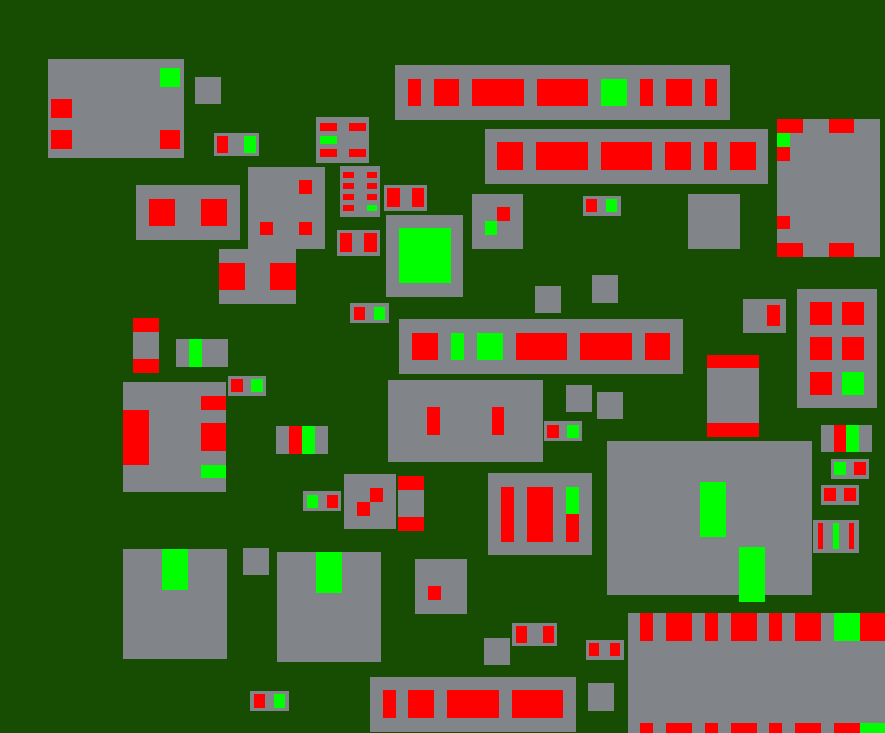
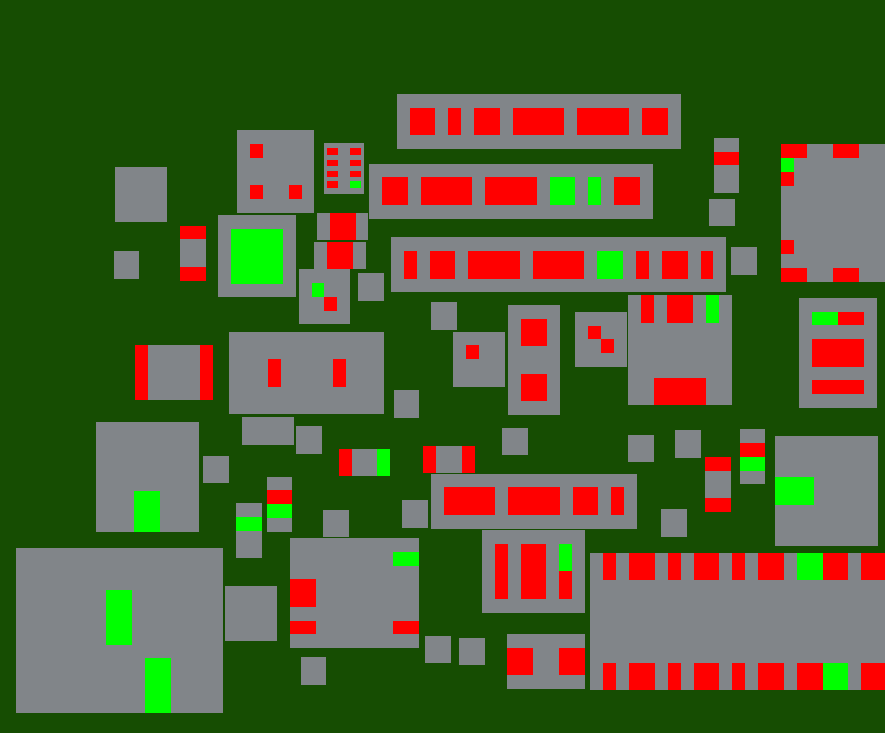
cleaning up, etc.

diff --git a/pcb-layout/src/main.rs b/pcb-layout/src/main.rs
@@ -7,6 +7,7 @@ use kicad_parse::parse_file;
 use plotters::coord::types::RangedCoordf64;
 use plotters::prelude::*;
 use rand::prelude::*;
+use rand::distr::weighted::WeightedIndex;
 use std::collections::BTreeMap;
 use std::time::Instant;
 
@@ -125,7 +126,7 @@ impl Individual {
     }
     fn move_to_new(&mut self, a: usize) {
         let mut rng = rand::rng();
-        let qk_comp = self.comp_list[a - 1].bbox;
+        //let qk_comp = self.comp_list[a - 1].bbox;
         let x = rng.random_range(self.pl_area.x1..self.pl_area.x2);
         let y = rng.random_range(self.pl_area.y1..self.pl_area.y2);
         //We need to zero, so lets grab the coords and also hold on to them
@@ -316,6 +317,50 @@ fn generate_animation(pl: Placement) -> Vec<String> {
     }
     file_names
 }
+fn ev_selection( population : & mut Vec<Individual>){
+    let weights: Vec<f64> = population.iter().map(|i| i.fitness).collect();
+    let dist = WeightedIndex::new(&weights).unwrap();
+    let pop_size = population.len();
+    //let new_vec = Vec::new();
+    let mut rng = rand::rng();
+    for _  in 0..pop_size{
+        let parent_a: &Individual = &population[dist.sample(&mut rng)];
+        let parent_b: &Individual = &population[dist.sample(&mut rng)];
+        let child_a: Individual = parent_a.crossover(parent_b);
+        let child_b: Individual = parent_b.crossover(parent_a);
+        population.push(child_a);
+        population.push(child_b);
+         
+    }
+        population.sort_by(|a: &Individual, b: &Individual| {
+            let a_s = a.fitness;
+            let b_s = b.fitness;
+
+            a_s.partial_cmp(&b_s).unwrap()
+        });
+        population.truncate(pop_size as usize);
+
+}
+fn elitist_selection( population : & mut Vec<Individual>){
+    let pop_size = population.len();
+    for i in (0..pop_size).step_by(2) {
+        let parent_a: &Individual = &population[i as usize];
+        let parent_b: &Individual = &population[(i + 1) as usize];
+        let child_a: Individual = parent_a.crossover(parent_b);
+        let child_b: Individual = parent_b.crossover(parent_a);
+            
+        population.push(child_a);
+        population.push(child_b);
+    }
+    population.sort_by(|a: &Individual, b: &Individual| {
+        let a_s = a.fitness;
+        let b_s = b.fitness;
+
+        a_s.partial_cmp(&b_s).unwrap()
+    });
+    population.truncate(pop_size as usize);
+    
+}
 fn genetic_algorithim(pl: Placement, pop_size: u32, num_generations: u32, output: bool) -> Vec<f64> {
     let mut population: Vec<Individual> = Vec::new();
     let mut scores: Vec<f64> = Vec::new();
@@ -336,28 +381,15 @@ fn genetic_algorithim(pl: Placement, pop_size: u32, num_generations: u32, output
         );
         println!("Original Score: {}", id.score());
     }
+
     let now = Instant::now();
     for _ in 0..num_generations {
         for ind in &mut population {
             ind.mutate();
             ind.score();
         }
-        for i in (0..pop_size).step_by(2) {
-            let parent_a: &Individual = &population[i as usize];
-            let parent_b: &Individual = &population[(i + 1) as usize];
-            let child_a: Individual = parent_a.crossover(parent_b);
-            let child_b: Individual = parent_b.crossover(parent_a);
-            
-            population.push(child_a);
-            population.push(child_b);
-        }
-        population.sort_by(|a: &Individual, b: &Individual| {
-            let a_s = a.fitness;
-            let b_s = b.fitness;
-
-            a_s.partial_cmp(&b_s).unwrap()
-        });
-        population.truncate(pop_size as usize);
+        //elitist_selection(&mut population);
+        ev_selection(&mut population);
         scores.push(population[0].fitness);
     }
     /*
@@ -415,6 +447,9 @@ struct Args {
     ///Run the testing function on our file (will overwrite gen/pop)
     #[arg(short, long, default_value_t = false)]
     test: bool,
+    ///Selection Type (ev or elitist)
+    #[arg(short, long, default_value_t = false)]
+    selection: bool,
 }
 fn main() {
     let args = Args::parse();
@@ -425,7 +460,7 @@ fn main() {
     if test {
         tester(pl2);
     } else {
-        let scores =genetic_algorithim(pl2, args.population_size, args.generations, true);
+        let _scores =genetic_algorithim(pl2, args.population_size, args.generations, true);
         //println!("{:?}", scores);
     }
 }

diff --git a/little-notebook.md b/little-notebook.md
@@ -54,4 +54,9 @@ It should also be noted we are SURELY being helped by starting from a "placed" b
 
 ## Notes again. 
 - We calc score on every one on the sort. That is definetly inefficent to some degree. 
+- added rough CLI using clap
+## Fixes
+- added fitness field to class. Now only calc when mutate (should add a check to only calc when successful)
+- added rough ev selector, think I want to add my weighting function to the elitist plan too
+
 
